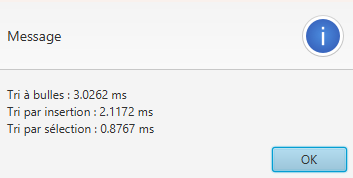
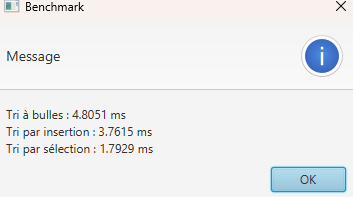
fix: Readme et Connexion.java

diff --git a/README.md b/README.md
@@ -12,10 +12,10 @@ Le projet utilise maintenant PostgreSQL et JDBC pour permettre la sauvegarde des
 
 ## Équipe
 
-| Nom complet | Adresse courriel | Contribution principale |
-|-------------|------------------|--------------------------|
-| Toleen Msabeh| msabeetl@gmail.com | modèles, services, tri, benchmark, lecture du CSV |
-| Unaiza Ali, Bhatti | e2596363@cmaisonneuve.qc.ca | UI FXML, Controller, CSS, integration de la base de donne |
+| Nom complet | Adresse courriel | Contribution principale                                   |
+|-------------|------------------|-----------------------------------------------------------|
+| Toleen Msabeh| msabeetl@gmail.com | modèles, services, tri, benchmark, lecture du CSV,  schéma SQL, scripts, connexion, implémentation DAO |
+| Unaiza Ali, Bhatti | e2596363@cmaisonneuve.qc.ca | UI FXML, Controller, CSS,  formulaires JavaFX, validation des saisies, gestion des erreurs, README |
 
 
 ---
@@ -135,21 +135,26 @@ Le projet utilise maintenant PostgreSQL et JDBC pour permettre la sauvegarde des
 - Postegres
 - PgAdmin
 
-### Étapes
+
+### Creation de la base de donnees
+
+- Cree dans pgAdmin4 une nouvelle database nommee `spotify_db`
+
+### Installation du projet
 
 ```bash
 # 1. Cloner le dépôt
 git clone https://github.com/toleen-m/spotify-playlist-manager.git
 cd spotify-playlist-manager
-
-# 2. Compiler
-mvn clean compile
-
-# 3. Lancer l'application
-mvn javafx:run
 ```
 
-### Alternative dans IntelliJ
+### Connexion au database spotify_db
+
+- Copier ce qui est dans `schema.sql` et coller dans un query tool du databse spotify_bd dans pgAdmin2, puis executer
+- Copier ce qui est dans `donnees.sql` et coller dans un autre query tool du meme databse, puis executer
+- Cree un fichier nommee `Connexion` dans le dossier dao/ et rempliser avec vos information (reference aux fichier modele ExampleConnexion)
+
+### Lancer l'application dans IntelliJ
 
 1. Ouvrir le projet dans IntelliJ (File > Open > dossier du projet)
 2. Attendre que Maven télécharge les dépendances
@@ -207,6 +212,7 @@ La solution utilisée a été de lancer le projet avec Maven et le plugin JavaFX
 
 ## Notes pour le correcteur
 
+- Pour lancer un tri, il faut choisir un critaire du combopox Tri, puis clicker le bouton `Lancer tri`
 - Le benchmark est accessible via le bouton benchmark
 - Pour ajouter une chanson dans un playlist: il faut clicker la playlist puis clicker le bouton `Ajouter chanson` apres, double clicler la chanson et reclicker le bouton `Ajouter chanson`
 - Pour voir la list des chansons d'une playlist: double clicker le nom du playlist
@@ -230,9 +236,9 @@ La solution utilisée a été de lancer le projet avec Maven et le plugin JavaFX
 
 ## Historique Git
 
-**Nombre total de commits** : 43
-**Date du premier commit** : Sep 7, 2026
-**Date du dernier commit** : Sep 13, 2026
+**Nombre total de commits** : 54
+**Date du premier commit** : Sep 15, 2026
+**Date du dernier commit** : Sep 20, 2026
 
 Voir l'onglet **Insights > Contributors** de GitHub pour voir la contribution de chacun.
 
